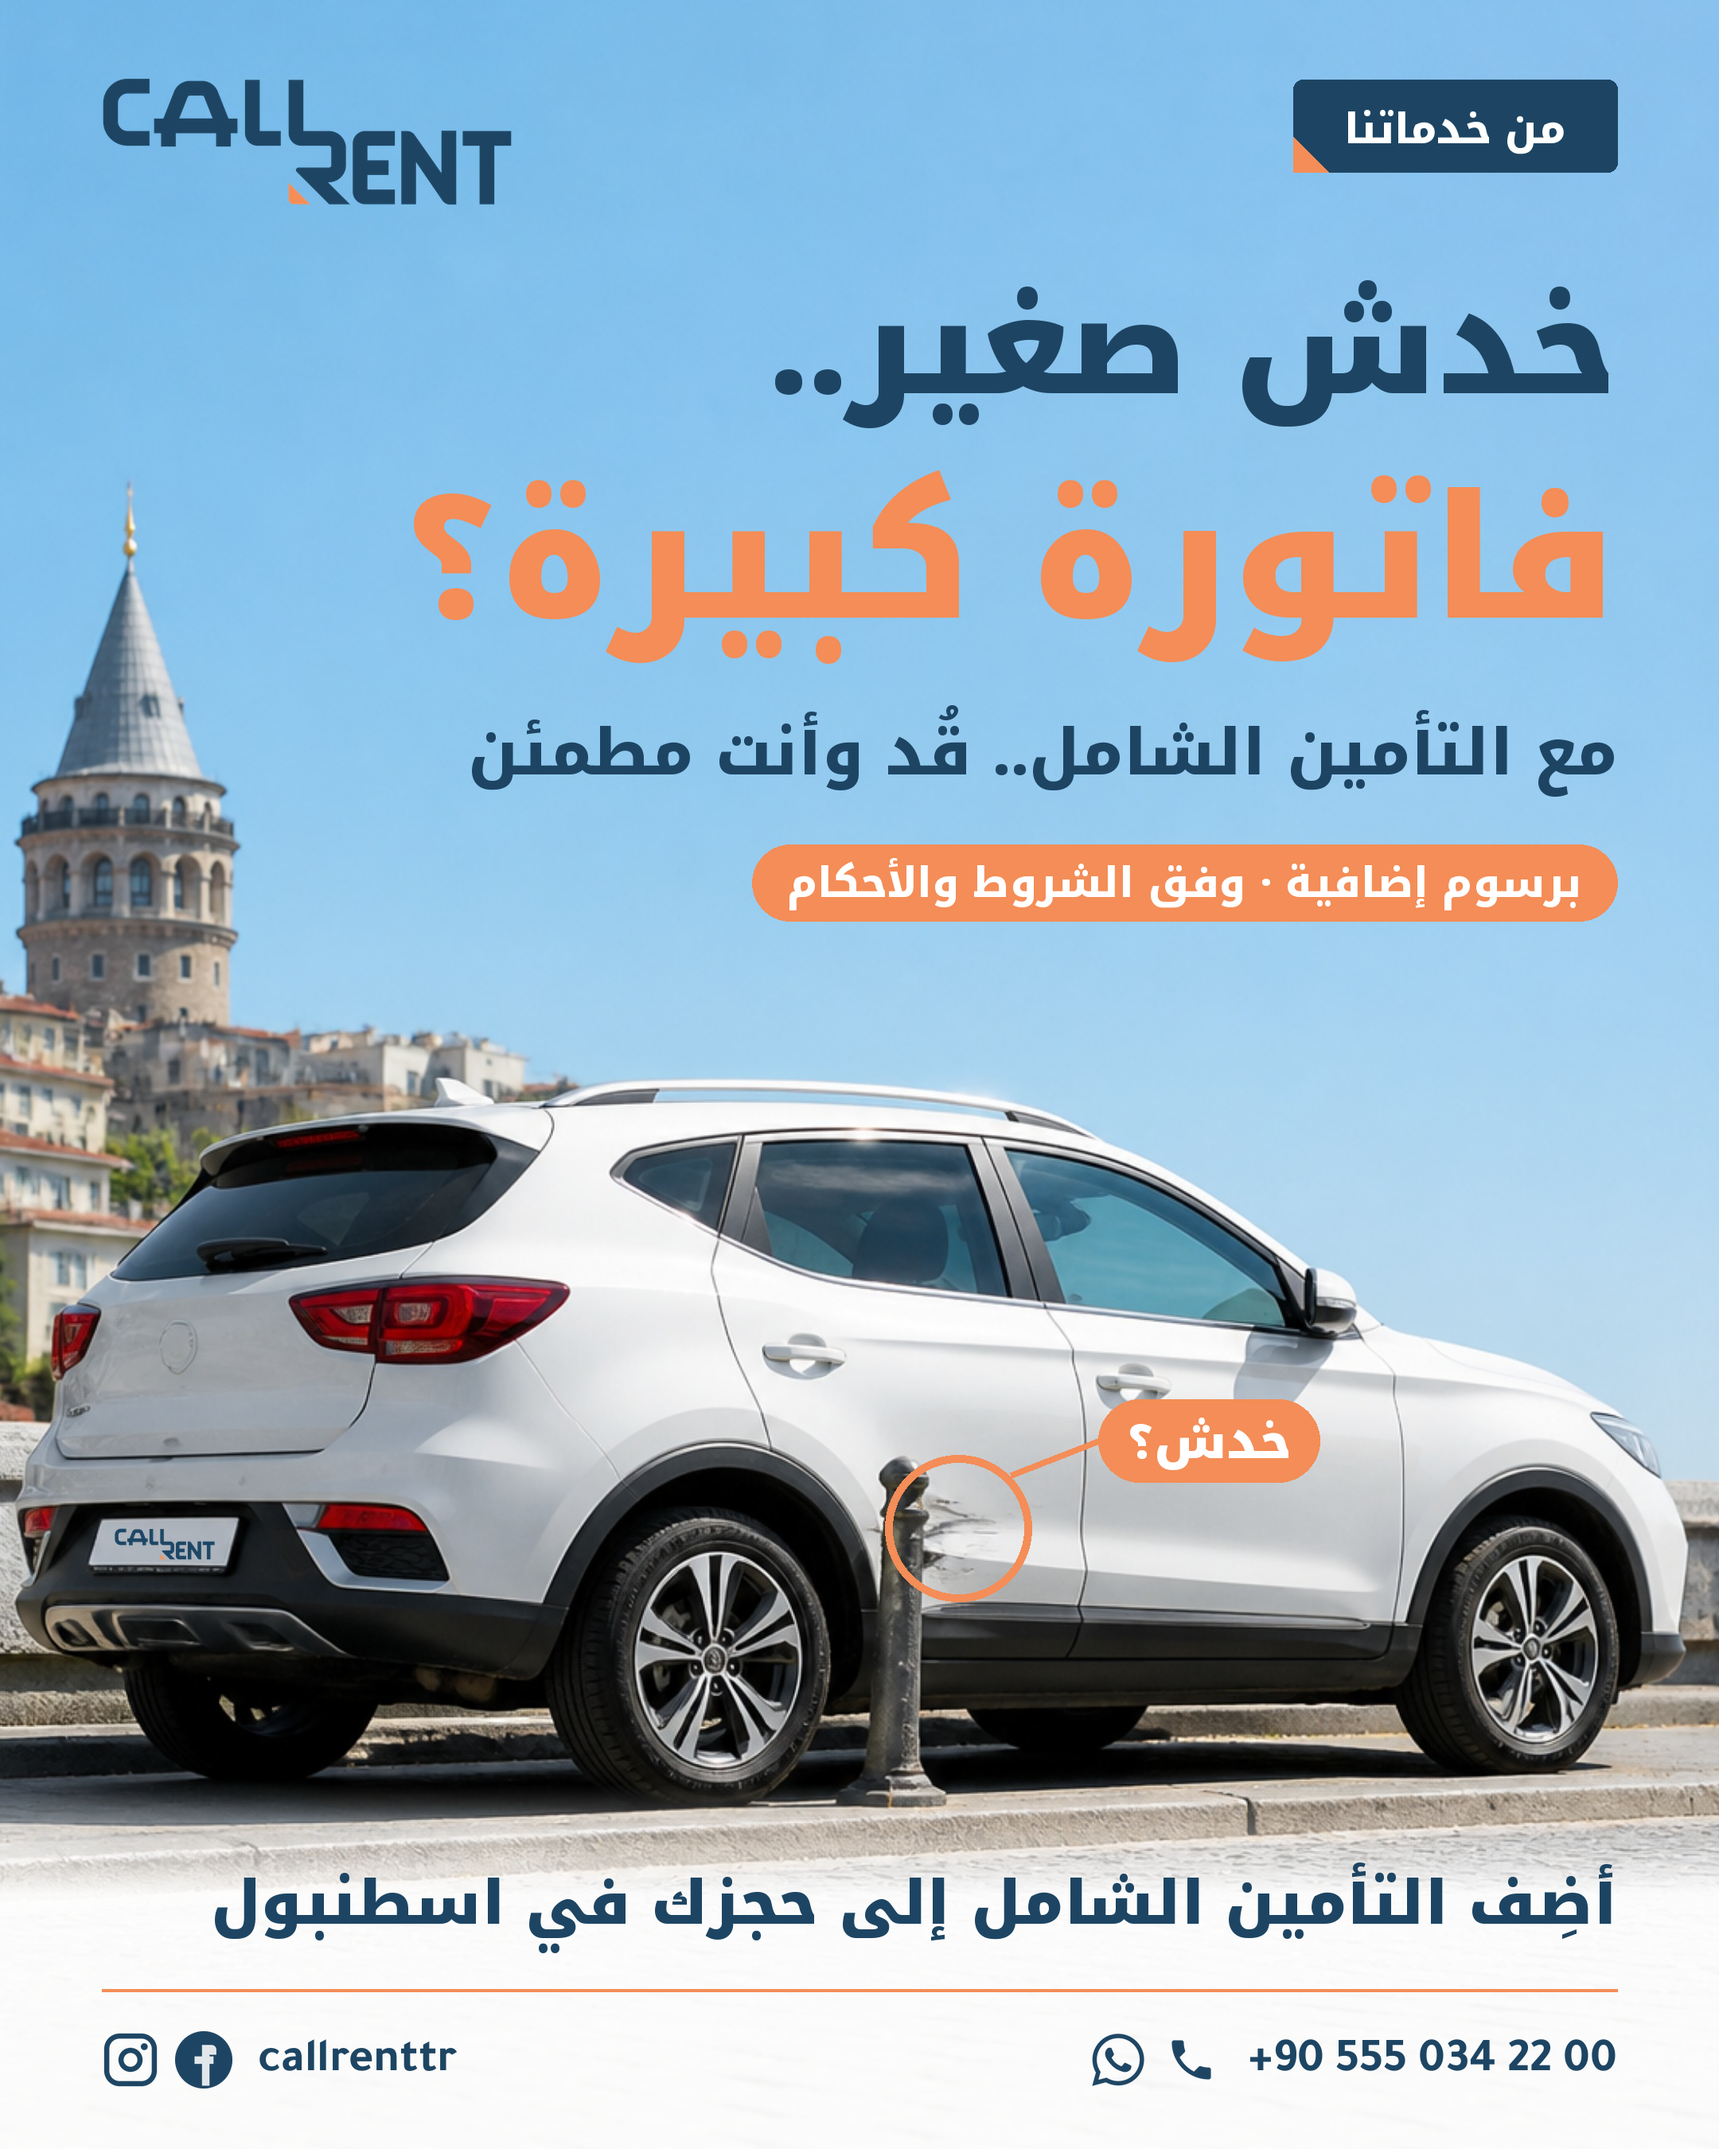
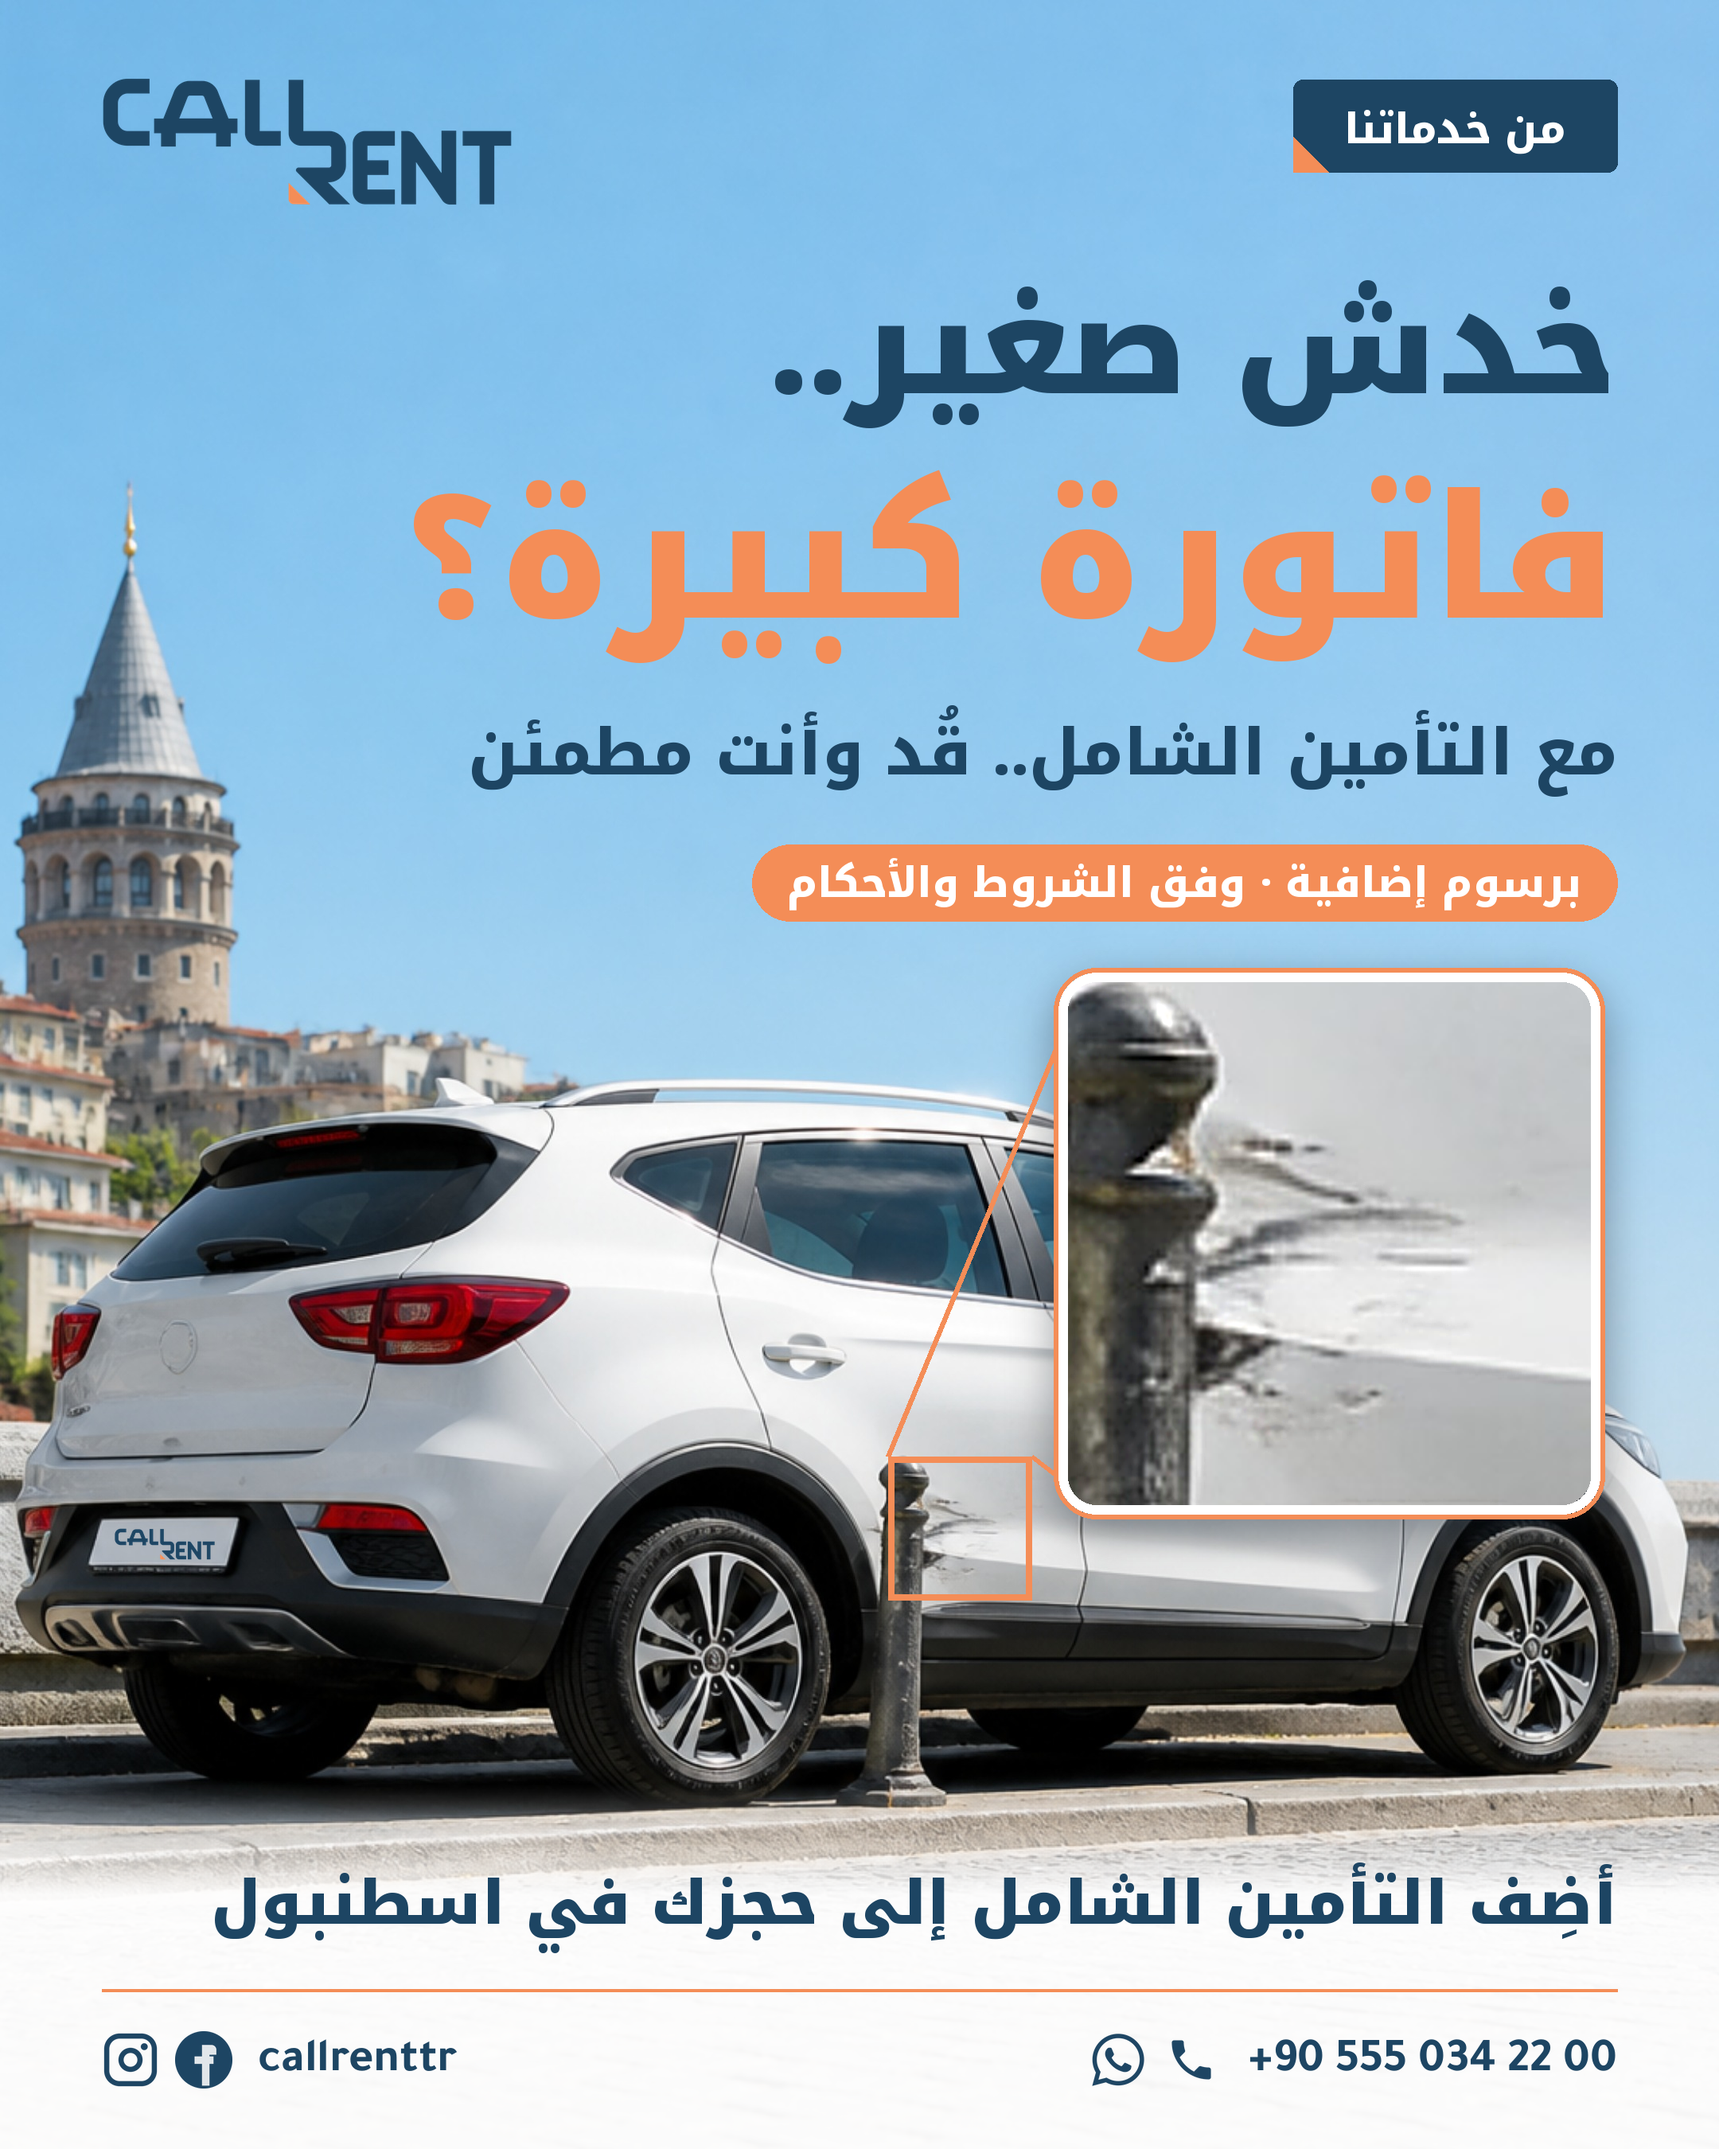
Kasko post: zoom inset on the scratch instead of the ring and label
Claude-Session: https://claude.ai/code/session_01JWxxZZBXcuDznNNTjM86b7

Changed region(s): [[0.4963, 0.4356, 0.9616, 0.7467]]

diff --git a/marketing/posts/kasko_scratch.py b/marketing/posts/kasko_scratch.py
@@ -69,14 +69,25 @@ d.rounded_rectangle((R_ - tw, c0, R_, c0 + S(48)), radius=S(24), fill=O+(255,))
 d.text((R_ - tw/2, c0 + S(24)), chip, font=fc_, fill=Wh+(255,), anchor='mm', direction='rtl', language='ar')
 print('sky text ends at', round((c0 + S(48))/K), '(car roof ~675)')
 
-# callout on the scratch: orange ring, short leader, label on the door panel
-sx, sy, r = S(602), S(960), S(46)
-d.ellipse((sx-r, sy-r, sx+r, sy+r), outline=O+(255,), width=S(5))
-lx, ly = S(690), S(905)
-d.line([(sx + r*0.72, sy - r*0.72), (lx, ly)], fill=O+(255,), width=S(4))
-fl = F(AR_BLACK, S(30)); lt_ = 'خدش؟'; lw3 = w_ar(lt_, fl) + S(36)
-d.rounded_rectangle((lx, ly - S(26), lx + lw3, ly + S(26)), radius=S(26), fill=O+(255,))
-ar(d, (lx + lw3/2, ly + S(1)), lt_, fl, Wh, 'mm')
+# zoom inset: a small square on the scratch, two leader lines, the same spot enlarged beside the car
+bx0, by0, bx1, by1 = S(558), S(915), S(648), S(1005)            # source square around the scratch
+src = cv.crop((bx0, by0, bx1, by1)).convert('RGB')
+ix1, iy0, isz = R_ - S(16), S(616), S(330)                    # inset box (right edge, top, size)
+ix0, iy1 = ix1 - isz, iy0 + isz
+zoom = src.resize((isz, isz), Image.LANCZOS).filter(ImageFilter.UnsharpMask(radius=S(3), percent=90, threshold=2))
+sh = Image.new('RGBA', (W, H), (0, 0, 0, 0))
+ImageDraw.Draw(sh).rounded_rectangle((ix0 - S(6), iy0 + S(4), ix1 + S(6), iy1 + S(14)), radius=S(26), fill=(20, 40, 60, 110))
+cv.alpha_composite(sh.filter(ImageFilter.GaussianBlur(S(14))))
+mask = Image.new('L', (isz, isz), 0); ImageDraw.Draw(mask).rounded_rectangle((0, 0, isz-1, isz-1), radius=S(20), fill=255)
+d = ImageDraw.Draw(cv)
+for (x0, y0), (x1, y1) in (((bx1, by0), (ix0 + S(8), iy1 - S(8))), ((bx0, by0), (ix0 + S(8), iy0 + S(8)))):
+    d.line([(x0, y0), (x1, y1)], fill=O+(255,), width=S(3))
+cv.paste(zoom, (ix0, iy0), mask)
+d = ImageDraw.Draw(cv)
+d.rounded_rectangle((ix0 - S(5), iy0 - S(5), ix1 + S(5), iy1 + S(5)), radius=S(24), outline=Wh+(255,), width=S(6))
+d.rounded_rectangle((ix0 - S(8), iy0 - S(8), ix1 + S(8), iy1 + S(8)), radius=S(27), outline=O+(255,), width=S(3))
+d.rectangle((bx0, by0, bx1, by1), outline=O+(255,), width=S(4))
+print('inset top', round(iy0/K), 'clears chip by', round((iy0 - S(8) - (c0 + S(48)))/K))
 
 # bottom line on the white floor
 t = 'أضِف التأمين الشامل إلى حجزك في اسطنبول'; f = F(AR_BLACK, S(38)); up, dn = ink(t, f)
